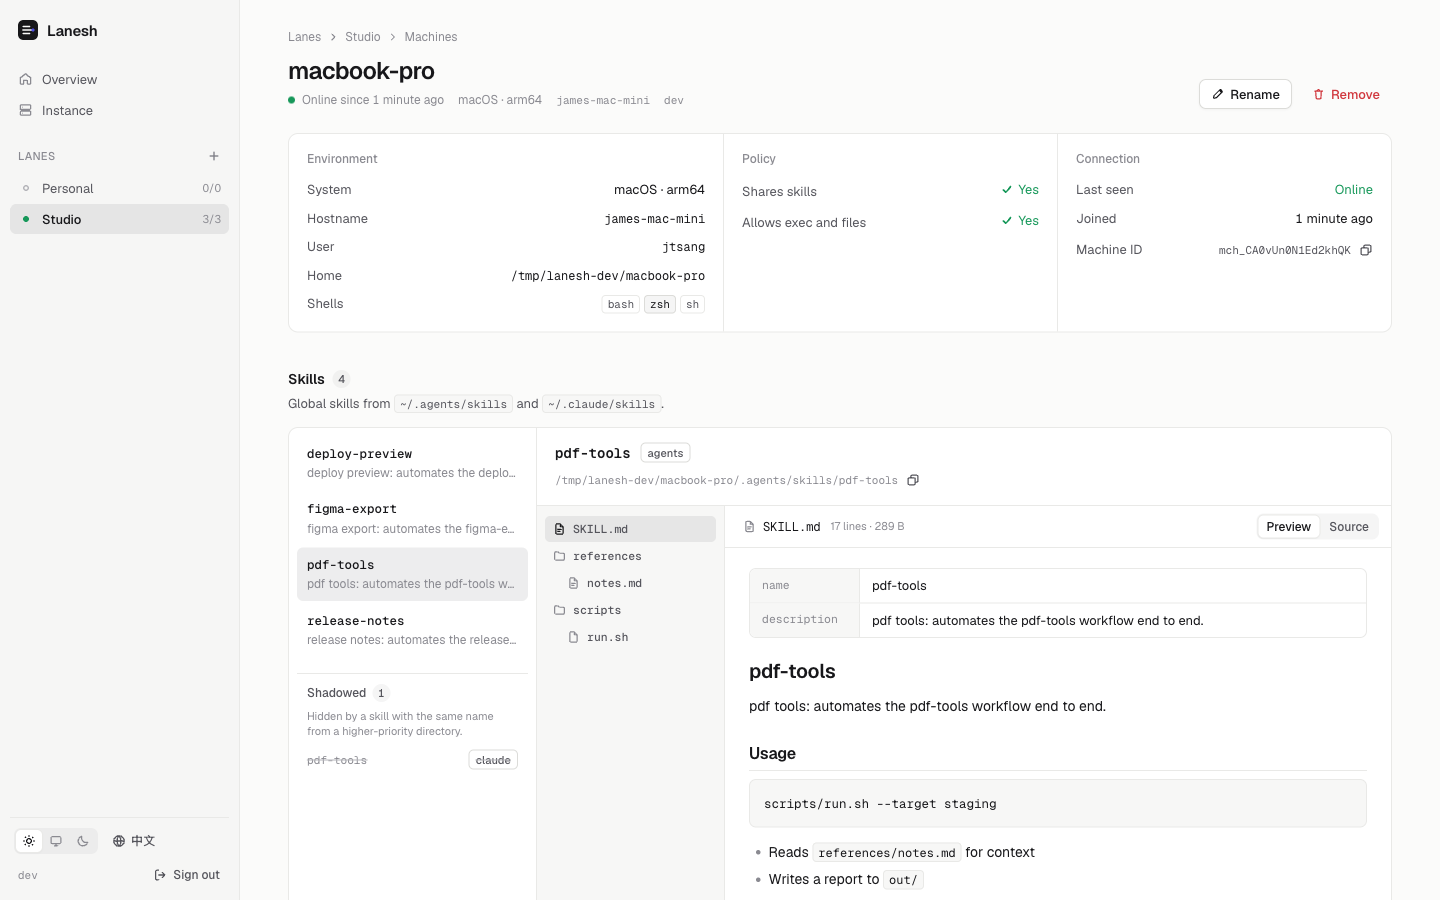
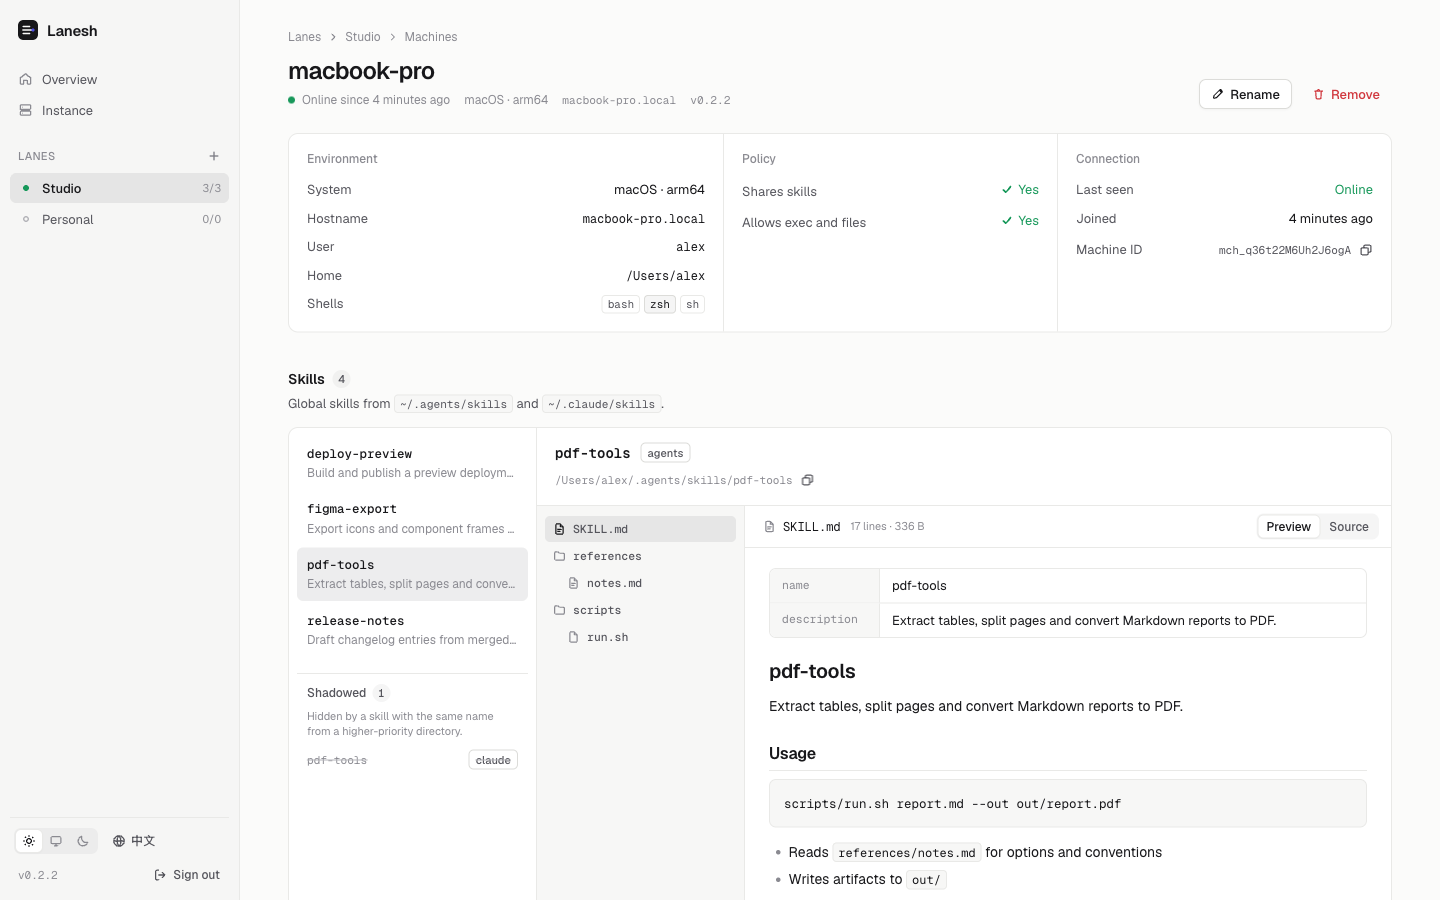
docs: refresh documentation and UI screenshots

diff --git a/docs/api.md b/docs/api.md
@@ -38,7 +38,7 @@ Cross-origin, cookie-authenticated, state-changing requests are rejected.
 | Method | Path | Description |
 |---|---|---|
 | `GET` | `/lanes/{lane}/machines` | Machines with `online`, `connected_at`, `last_seen`, `joined_at`, `policy`, `skill_count`, `skills_hash` and the live `environment` (`os`, `arch`, `hostname`, `user`, `home`, `default_shell`, `shells`, `version`). |
-| `PATCH` | `/lanes/{lane}/machines/{machine}` | Body `{"name"}`; `409` if another machine in the lane has that name. |
+| `PATCH` | `/lanes/{lane}/machines/{machine}` | Body `{"name"}`; `409` if another machine in the lane has that name. `{machine}` is a machine ID. |
 | `DELETE` | `/lanes/{lane}/machines/{machine}` | Removes the machine from the lane and disconnects it. The machine must join again with a join key. |
 | `GET` | `/lanes/{lane}/machines/{machine}/skills` | The skill index (`skills`, `shadowed`, `hash`), whether it is `live` or the last stored snapshot, and `updated_at`. |
 | `GET` | `/lanes/{lane}/machines/{machine}/skills/{skill}?path=` | Without `path`: `SKILL.md`, the skill directory and its file tree (`files`). With `path`: that file (`content`, `encoding` `utf-8` or `base64`, `size`, `truncated`). `503` while the machine is offline. |
@@ -58,10 +58,10 @@ A project names where some work lives (`locations`: a machine and a path each) a
 
 | Method | Path | Description |
 |---|---|---|
-| `GET` | `/lanes/{lane}/projects` | Projects by name: `id`, `name`, `summary` (the first paragraph of the context), `locations` with `machine_name` and `online`, `revision`, `updated_at`, `updated_by`. |
+| `GET` | `/lanes/{lane}/projects` | Projects by name: `id`, `name`, `summary` (the first paragraph of the context), `locations` with `machine_name`, `online` and `removed` (when the machine left the lane), `revision`, `updated_at`, `updated_by` (resolved actor name). |
 | `POST` | `/lanes/{lane}/projects` | Body `{"name", "context"?, "locations"?: [{"machine_id", "path"}]}`. Returns `201` with the project. `409` if the lane has a project of that name (ignoring case). |
-| `GET` | `/lanes/{lane}/projects/{project}` | The project, with each location checked on its machine now: `info` (`exists`, `git`, `branch`, `worktree`, `agent_files`) or a `note` saying why it was not checked. |
-| `PATCH` | `/lanes/{lane}/projects/{project}` | Body with any of `name`, `context`, `locations` (the whole list), and `base_revision`. With `base_revision`, returns `409` and the current `project` if it changed since. |
+| `GET` | `/lanes/{lane}/projects/{project}` | The project (including `updated_by_name`), with each location checked on its machine now: `removed` if the machine left the lane, `info` (`resolved`, `exists`, `dir`, `git`, `branch`, `worktree`, `agent_files`, `error`), or a `note` saying why it was not checked. |
+| `PATCH` | `/lanes/{lane}/projects/{project}` | Body with any of `name`, `context`, `locations` (the whole list), and `base_revision`. Returns `409` if the new name collides with another project (ignoring case), or with the current `project` if `base_revision` is stale. |
 | `DELETE` | `/lanes/{lane}/projects/{project}` | Deletes the project and its history. Files on machines are not touched. |
 | `GET` | `/lanes/{lane}/projects/{project}/revisions` | The last 20 revisions, newest first, each a full snapshot (`revision`, `name`, `context`, `locations`, `updated_at`, `updated_by`, `updated_by_name`). Restore one by sending its fields with `PATCH`. |
 
@@ -71,13 +71,13 @@ A project names where some work lives (`locations`: a machine and a path each) a
 |---|---|---|
 | `GET` | `/lanes/{lane}/audit` | Newest first. Query: `machine`, `action`, `actor`, `before` (an entry ID: pass the last ID of a page to get the next one), `limit` (default 100, max 500). Entries include `actor_name` and `machine_name` when the actor or machine is a key or machine of the lane, including revoked keys and removed machines. |
 
-Each entry has `id`, `time`, `lane_id`, `actor` (an access key ID, a machine ID or `admin`), `action`, `machine_id`, `detail` and `result`. Actions:
+Each entry has `id`, `time`, `lane_id`, `actor` (a key ID, a machine ID or `admin`), `action`, `machine_id`, `detail` and `result`. Actions:
 
 | Action | Recorded when |
 |---|---|
 | `exec` | An agent starts a command (`command`, `cwd`, `skill`, `job_id`, `status`, `exit_code`) |
-| `job.exited` | A command finishes (`exit_code`, `duration_ms`) |
-| `job.write`, `job.kill` | An agent writes to or stops a job |
+| `job.exited` | A command finishes (`job_id`, `command`, `exit_code`, `duration_ms`) |
+| `job.write`, `job.kill` | An agent writes to (`job_id`, `bytes`, `close_stdin`) or stops (`job_id`, `signal`) a job |
 | `file.read`, `file.write` | Inline file operations (`path`, `bytes`) |
 | `transfer` | A transfer between machines (`from_path`, `to_machine`, `to_path`, `bytes`, `files`) |
 | `machine.join`, `machine.leave`, `machine.remove` | Membership changes |

diff --git a/README.md b/README.md
@@ -11,11 +11,12 @@ An AI agent can only use the machine it runs on. Your skills are spread across a
 Lanesh gives an agent one MCP endpoint that reaches all of your machines. Through it, the agent can:
 
 - **Discover** which machines are online and which global skills each one has installed
-- **Read** a skill's `SKILL.md`, scripts and references on demand
+- **Read** and search a skill's `SKILL.md`, scripts and references on demand
 - **Run** commands on a specific machine, including long-running background jobs
 - **Move** files and directories between machines
+- **Share projects** with live location checks (Git branch, worktree, `AGENTS.md` / `CLAUDE.md`) and Markdown context
 
-A web UI shows every lane, machine and skill, manages keys, and keeps an audit log of everything agents do.
+A web UI shows every lane, machine, project and skill, manages keys, and keeps an audit log of everything agents do.
 
 ![Skills across the machines of a lane](docs/images/skills-dark.png)
 
@@ -135,6 +136,8 @@ Any MCP client that supports Streamable HTTP works. Pass the access key as `Auth
 
 A **project** says where some work lives (a machine and a path, or several) and what an agent should know about it: free Markdown for what it is, its rules and where it stands. Locations are a guide, not a limit. Reading a project checks each location on its machine (does the path exist, which Git branch, is it a worktree, does it have `AGENTS.md` or `CLAUDE.md`), so nothing that a machine can report goes stale. Manage projects in the web UI, or tell an agent to.
 
+![A project with live location checks, Markdown context and revision history](docs/images/project-dark.png)
+
 Results are compact plain text kept within a token budget. Whatever Lanesh leaves out (long output, large skill trees, the rest of a file) is stated in place with how to get it, and every result ends with `[lanesh] end of result`, so an agent can tell when its client cut a result short.
 
 Every tool that touches a machine requires that machine's briefing token, a short value such as `build-box:k3f9q2ab` returned by `describe_machine`. It makes the agent look at a machine's environment and skills before acting on it. When a call has no valid token (the agent forgot it, or the machine's skills changed), nothing runs and the reply is the machine's current briefing with its token, so the agent catches up and retries in one step. If the skills changed, the briefing starts with what changed since that agent's own last briefing (new, updated and removed skills), so a long-running session knows which skills to re-read while a new session simply sees the current state.
@@ -164,7 +167,7 @@ Commands run as your user, in your login shell's environment, so tools installed
 | `LANESH_TRANSFER_MAX_BYTES` | unlimited | Maximum size of one transfer |
 | `LANESH_TRANSFER_PART_BYTES` | 16 MiB | Largest upload request of a transfer; keep it below the request size limit of any proxy in front of the server (Cloudflare Free/Pro: 100 MB) |
 | `LANESH_TRANSFER_GZIP` | `true` | Compress transfers between daemons that support it |
-| `LANESH_AUDIT_RETENTION_DAYS` | `90` | How long audit records are kept |
+| `LANESH_AUDIT_RETENTION_DAYS` | `90` | How long audit records are kept (`0` keeps them forever) |
 | `LANESH_LOG_LEVEL` | `info` | `debug`, `info`, `warn` or `error` |
 
 ## Security
@@ -190,9 +193,8 @@ Requirements: Go (the version in `go.mod` is fetched automatically), Node.js 24+
 ```sh
 make web          # build the UI (embedded into the binary)
 make build        # build ./bin/lanesh
-make test         # Go, web and npm launcher tests
-make lint
-scripts/dev.sh    # local server with demo machines at http://localhost:8080 (admin token lsa_dev_token)
+make check        # lint and tests (Go, web and npm launcher)
+make dev          # local server with demo machines and projects at http://localhost:8080 (admin token lsa_dev_token)
 make dev-web      # UI dev server with API proxy
 ```
 

diff --git a/AGENTS.md b/AGENTS.md
@@ -1,6 +1,6 @@
 # Agent Guidelines for Lanesh
 
-Lanesh lets an AI agent discover and use global skills and shells across multiple machines through one self-hosted MCP endpoint. It consists of a server, a per-machine daemon, and a management web UI, all shipped as one Go binary.
+Lanesh lets an AI agent discover and use global skills, shells and shared project context across multiple machines through one self-hosted MCP endpoint. It consists of a server, a per-machine daemon, and a management web UI, all shipped as one Go binary.
 
 ## Source of truth
 
@@ -24,9 +24,11 @@ make build        # build ./bin/lanesh
 make test         # go test, svelte-check, npm launcher tests
 make lint         # golangci-lint and web lint
 make check        # lint + test, as CI runs them
+make fmt          # format Go and web sources
 make hooks        # pre-commit hooks for staged files (lefthook)
-scripts/dev.sh    # local server + three demo machines on :8080 (admin token lsa_dev_token)
+make dev          # local server + three demo machines and projects on :8080 (admin token lsa_dev_token)
 scripts/service-test.sh ./bin/lanesh   # background service lifecycle (installs a real per-user service)
+scripts/install-test.sh                # install.sh / install.ps1 tests against a fake release
 ```
 
 - `internal/server/e2e_test.go` runs a real server and daemons in-process and drives them with the official MCP SDK client. Extend it when changing MCP tools or the control protocol.

diff --git a/CONTRIBUTING.md b/CONTRIBUTING.md
@@ -37,6 +37,7 @@ The repository follows [golang-standards/project-layout](https://github.com/gola
 | `build/package` | Container image |
 | `build/npm` | The `lanesh` npm launcher package |
 | `deployments/` | Deployment examples |
+| `scripts/` | Local demo environment (`dev.sh`) and service / install script tests |
 | `docs/` | Design and maintainer documentation |
 
 ## Making changes

diff --git a/.github/pull_request_template.md b/.github/pull_request_template.md
@@ -4,7 +4,7 @@
 
 ## Checklist
 
-- [ ] `make lint test` passes
+- [ ] `make check` passes
 - [ ] Tests cover the change
 - [ ] `docs/design.md` is updated if behaviour or interfaces changed
 - [ ] UI changes include screenshots
